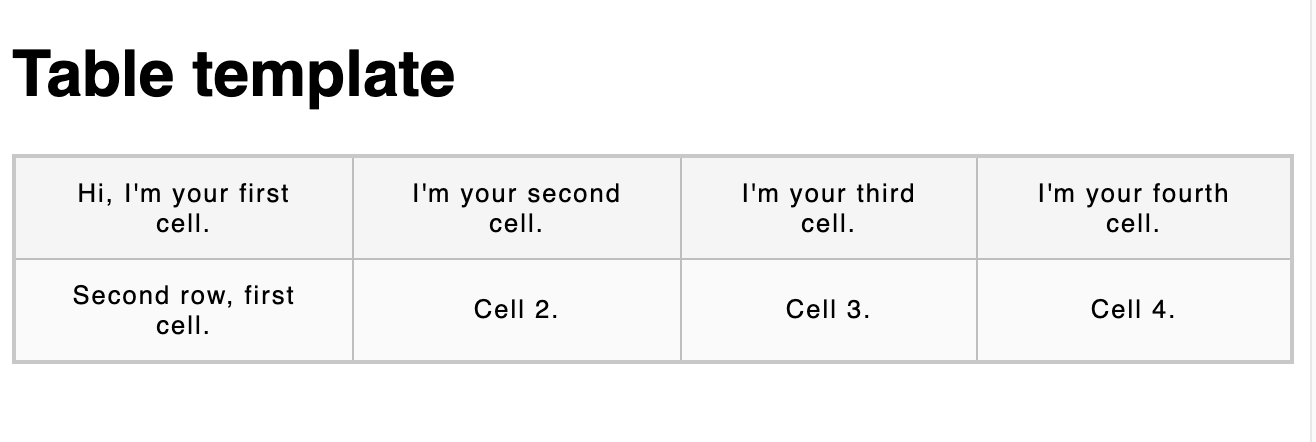
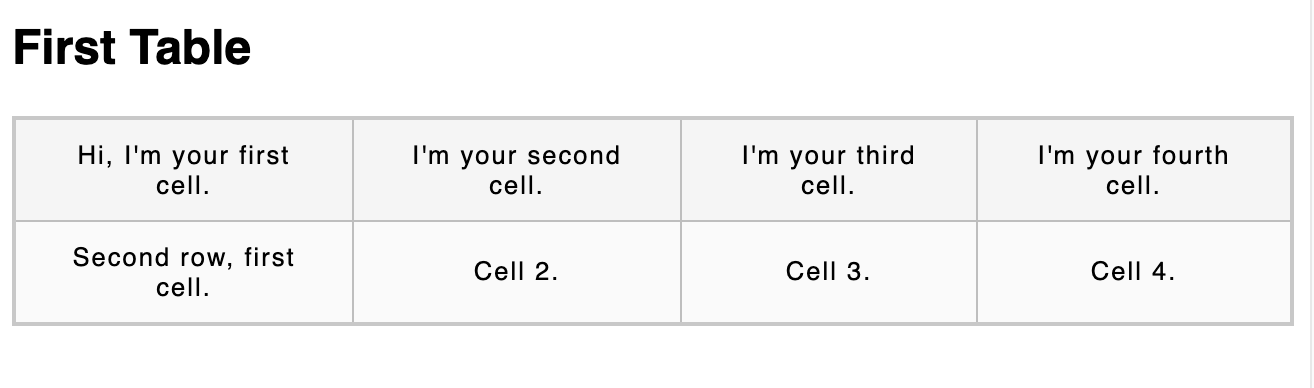
tables trying indents

diff --git a/HTML/html02/08-tables-basics.md b/HTML/html02/08-tables-basics.md
@@ -167,15 +167,14 @@ Data about the planets of our solar system (Planetary facts taken from [Nasa's P
  </tbody>
 </table>
 
+
 When done correctly, even blind people can interpret tabular data in an HTML table — a successful HTML table should enhance the experience of sighted and visually impaired users alike.
 
 ## Table styling
 
 You can also have a look at the [live example on GitHub](https://mdn.github.io/learning-area/html/tables/assessment-finished/planets-data.html)! One thing you'll notice is that the table does look a bit more readable there — this is because the table you see above on this page has minimal styling (the browser default styles), whereas the GitHub version has more significant CSS applied.
 
-Be under no illusion; for tables to be effective on the web, you need to provide some styling information with CSS, as well as good solid structure with HTML. In this module we are focusing on the HTML part; to find out about the CSS part you should visit MDN's [Styling tables article](https://developer.mozilla.org/en-US/docs/Learn/CSS/Styling_boxes/Styling_tables) after you've learnt about CSS.
-
-<!-- We won't focus on CSS in this module, but we have provided a minimal CSS stylesheet for you to use that will make your tables more readable than the default you get without any styling. You can find the [stylesheet here](https://github.com/mdn/learning-area/blob/master/html/tables/basic/minimal-table.css), and you can also find an [HTML template](https://github.com/mdn/learning-area/blob/master/html/tables/basic/blank-template.html) that applies the stylesheet — these together will give you a good starting point for experimenting with HTML tables. -->
+Be under no illusion; for tables to be effective on the web, you need to provide some styling information with CSS, as well as good solid structure with HTML. In this chapter we are focusing on the HTML part.
 
 <h3 class="warning">When should you NOT use HTML tables?</h3>
 
@@ -204,7 +203,7 @@ This was commonly used because CSS support across browsers used to be terrible; 
 
 ### Task 2
 
-- The content of every table is enclosed by these two tags : `<table></table>`. Copy and paste this code inside the body of your HTML under the heading `<h1>Table template</h1>`.
+- The content of every table is enclosed by these two tags : `<table></table>`. Copy and paste this code inside the body of your HTML under the heading `<h2>First Table</h2>`.
 
 ```
 <table>
@@ -275,7 +274,20 @@ Remember to indent your code - it makes it easier to read and spot errors.
 
 ## Adding headers with `<th>` elements
 
-Now let's turn our attention to table headers — special cells that go at the start of a row or column and define the type of data that row or column contains (as an example, see the "Person" and "Age" cells in the first example shown in this article). To illustrate why they are useful, have a look at the following table example. First the source code:
+Now let's turn our attention to table headers — special cells that go at the start of a row or column and define the type of data that row or column contains (as an example, see the "Person" and "Age" cells in the first example shown in this chapter). To illustrate why they are useful, have a look at the following table example. First the source code:
+
+<!-- div class="exercise" -->
+## Exercise Two
+
+> Adding table headers.
+
+### Task 1
+
+- Return to your HTML Tables Repl.it (`html13`)
+
+### Task 2
+
+- Copy and paste this code inside the body of your HTML under the heading `<h2>Second Table</h2>`.
 
 ```
 <table>
@@ -316,57 +328,31 @@ Now let's turn our attention to table headers — special cells that go at the s
   </tr>
 </table>
 ```
-Now the actual rendered table:
 
-<table border="1">
- <tbody>
-  <tr>
-   <td></td>
-   <td>Knocky</td>
-   <td>Flor</td>
-   <td>Ella</td>
-   <td>Juan</td>
-  </tr>
-  <tr>
-   <td>Breed</td>
-   <td>Jack Russell</td>
-   <td>Poodle</td>
-   <td>Streetdog</td>
-   <td>Cocker Spaniel</td>
-  </tr>
-  <tr>
-   <td>Age</td>
-   <td>16</td>
-   <td>9</td>
-   <td>10</td>
-   <td>5</td>
-  </tr>
-  <tr>
-   <td>Owner</td>
-   <td>Mother-in-law</td>
-   <td>Me</td>
-   <td>Me</td>
-   <td>Sister-in-law</td>
-  </tr>
-  <tr>
-   <td>Eating Habits</td>
-   <td>Eats everyone's leftovers</td>
-   <td>Nibbles at food</td>
-   <td>Hearty eater</td>
-   <td>Will eat till he explodes</td>
-  </tr>
- </tbody>
-</table>
+### Task 2
 
-The problem here is that, while you can kind of make out what's going on, it is not as easy to cross reference data as it could be. If the column and row headings stood out in some way, it would be much better.
+- Run the page in the browser.  You should see this:
 
-## Exercise: table headers
+<img src="media/table-two.png" alt="Both tables rendered in the browser">
+
+The problem here in our second table is that, while you can kind of make out what's going on, it is not as easy to cross reference data as it could be. If the column and row headings stood out in some way, it would be much better.
+
+### Task 3
 
 Let's have a go at improving this table.
 
-1. First, make a local copy of MDN's [dogs-table.html](https://github.com/mdn/learning-area/blob/master/html/tables/basic/dogs-table.html) and [minimal-table.css](https://github.com/mdn/learning-area/blob/master/html/tables/basic/minimal-table.css) files in a new directory on your local machine. The HTML contains the same Dogs example as you saw above.
+- To recognize the table headers as headers, both visually and semantically, you can use the `<th>` element (`th` stands for `table header`). This works in exactly the same way as a `<td>`, except that it denotes a header, not a normal cell. 
 
-1. To recognize the table headers as headers, both visually and semantically, you can use the `<th>` element ('th' stands for 'table header'). This works in exactly the same way as a `<td>`, except that it denotes a header, not a normal cell. Go into your HTML, and change all the `<td>` elements surrounding the table headers into `<th>` elements.
+- Go into your HTML, and change all the `<td>` elements surrounding the table headers into `<th>` elements.
+
+- The headers for the columns are the dog names:
+
+  + Knocky
+  + Flor
+  + Ella
+  + Juan
+
+
 
 1. Save your HTML and load it in a browser, and you should see that the headers now look like headers.
 
@@ -470,6 +456,12 @@ To get a better understanding of this topic use the following resources.
 
 - MDN: `<th>` - [The Table Header element](https://developer.mozilla.org/en-US/docs/Web/HTML/Element/th)
 
+
+<h2 class="deep">Advanced Learning</h2>
+
+For students wanting more, we recommend the following topics and resources. 
+
+MDN: [Styling tables with CSS](https://developer.mozilla.org/en-US/docs/Learn/CSS/Styling_boxes/Styling_tables) - You will need to understand CSS.
 
 ### &copy; Credit given
 
